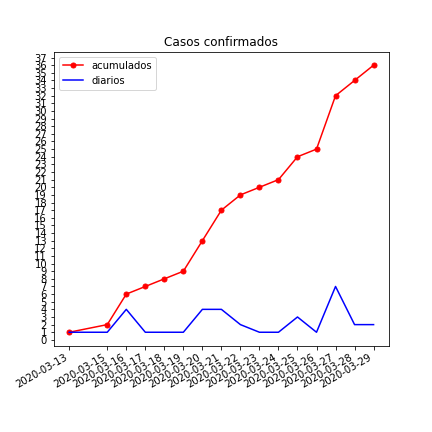
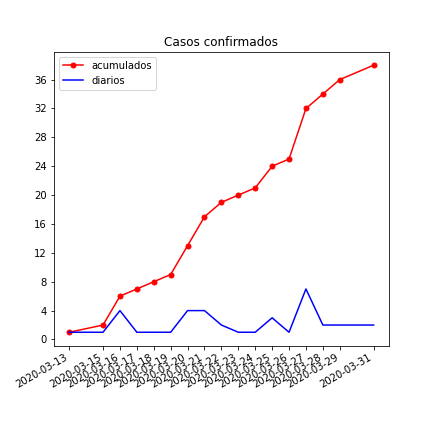
Actualizacion 31mar2020

diff --git a/README.md b/README.md
@@ -8,9 +8,9 @@ Proposito: Que investigadores/desarrolladores/sociedad civil se informen y estud
 
 ## Estadisticas
 
-Confirmados: 36
+Confirmados: 38
 
-Recuperados: 5
+Recuperados: 12 (* se tiene informacion solo de 5 recuperados, de los 7 restantes, no se sabe quienes son)
 
 Fallecidos: 1
 
@@ -42,6 +42,7 @@ Contine la informacion disponible de los casos confirmados de corona virus en Gu
 - razon_infeccion: causa de la infeccion (viaje, visita a familiar, visita a hospital, contacto con paciente, etc) (string)
 - ingreso_guatemala: aa-mm-dd, si viajo al extranjero, fecha en que regreso a Guatemala, o campo vacio si es desconocido (string)
 - infectado_por: id del paciente que transmitio, -99: desconocido (numerico, entero)
+- fecha_inicio_sintomas: aa-mm-dd fecha en que se comienza a observar sintomas (string)
 - fecha_confirmacion: aa-mm-dd fecha en la que se confirmo la infeccion, o campo vacio si es desconocido (string)
 - fecha_recuperacion: aa-mm-dd fecha en la que el paciente se recupero, o campo vacio si es desconocido (string)
 - fecha_deceso: aa-mm-dd fecha en que el paciente fallecio, o campo vacio (string)
